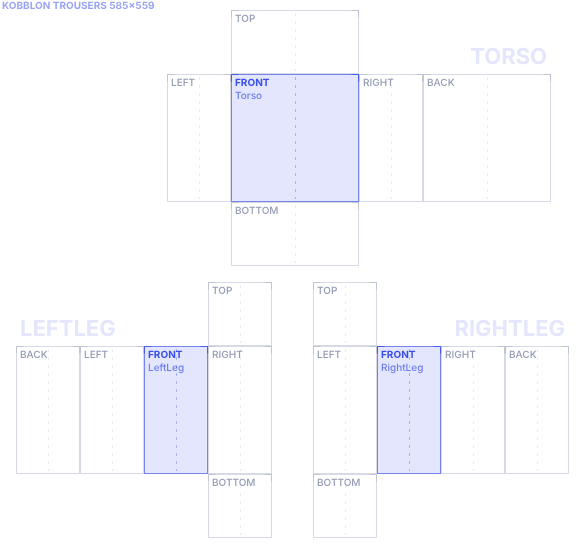
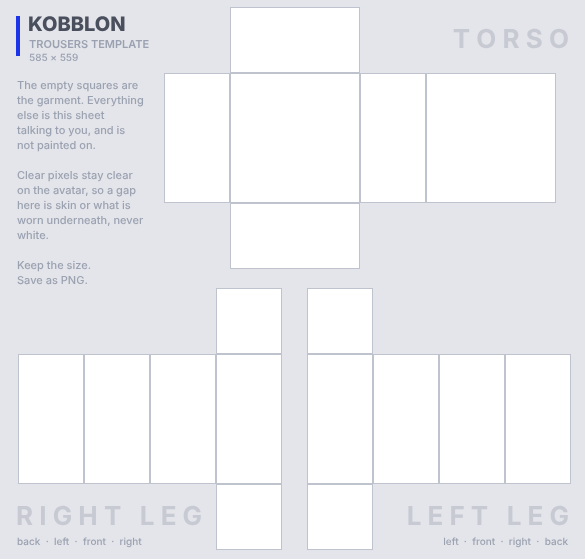
The clothing sheet everybody already has, with our own furniture on it
Measured off the real thing rather than approximated: the panels now sit
exactly where that sheet puts them, 64 wide with two pixels between, and the
avatar's right limb is on the left of the page, which it was not. Reading the
limbs off in list order put every sleeve on the wrong arm.

Everything the sheet says is outside the panels - the field, the lines, the
names, the notes - and the panels are cleared to transparent rather than
drawn into, because clear pixels now stay clear on the avatar. The last thing
drawTemplate does is clear them again, so a letter that strays is cut off on
the sheet instead of printed on somebody's shirt.

169 engine checks pass.

Claude-Session: https://claude.ai/code/session_01FZQsh7zMLCg3ec5FXM3dEr

diff --git a/src/engine/clothes.ts b/src/engine/clothes.ts
@@ -157,27 +157,42 @@ export const SHEET = { width: 585, height: 559 }
 
 /** The torso's six panels, which are the same on a shirt and on trousers. */
 const TORSO_PANELS: Record<Side, Region> = {
-  top: { x: 231, y: 10, w: 128, h: 64 },
-  left: { x: 167, y: 74, w: 64, h: 128 },
+  top: { x: 231, y: 8, w: 128, h: 64 },
+  left: { x: 165, y: 74, w: 64, h: 128 },
   front: { x: 231, y: 74, w: 128, h: 128 },
-  right: { x: 359, y: 74, w: 64, h: 128 },
-  back: { x: 423, y: 74, w: 128, h: 128 },
-  bottom: { x: 231, y: 202, w: 128, h: 64 },
+  right: { x: 361, y: 74, w: 64, h: 128 },
+  back: { x: 427, y: 74, w: 128, h: 128 },
+  bottom: { x: 231, y: 204, w: 128, h: 64 },
 }
 
 /*
  * A limb's four faces, in the order they lie across its block, and which of
  * those four the lid and floor sit over. The avatar's left limb and its
  * right one are mirror images of each other on the sheet.
+ *
+ * The panels are 64 wide with two pixels between them, which is why the
+ * pitch is 66 and not the cell size. Those two pixels are where the sheet
+ * draws its own lines, so that nothing a creator can see sits inside a
+ * panel and ends up printed on the garment.
  */
-const LIMBS = [
-  { at: 16, across: ['back', 'left', 'front', 'right'] as Side[], flapAt: 3 },
-  { at: 313, across: ['left', 'front', 'right', 'back'] as Side[], flapAt: 0 },
-]
+const LIMBS: Record<'left' | 'right', { at: number; across: Side[]; flapAt: number }> = {
+  /*
+   * Keyed by which arm or leg it is, and not by the order the parts happen
+   * to be listed in, because the sheet puts the avatar's **right** limb on
+   * the left of the page. Reading them off in list order put every sleeve on
+   * the wrong arm - it survives being looked at, because a sleeve is nearly
+   * symmetrical and most shirts do not care until one of them does.
+   */
+  right: { at: 19, across: ['back', 'left', 'front', 'right'], flapAt: 3 },
+  left: { at: 308, across: ['left', 'front', 'right', 'back'], flapAt: 0 },
+}
 
-const LIMB_ROW = 346
-const LIMB_LID = 282
-const LIMB_FLOOR = 474
+/** Panel to panel across a strip: 64 of panel and 2 of gap. */
+const PITCH = CELL + 2
+
+const LIMB_ROW = 355
+const LIMB_LID = 289
+const LIMB_FLOOR = 485
 
 export function templateFor(kind: Clothing): Template {
   const regions: Record<string, Region> = {}
@@ -187,17 +202,17 @@ export function templateFor(kind: Clothing): Template {
     regions[key(body as BodyPart, side)] = { ...TORSO_PANELS[side] }
   }
 
-  limbs.forEach((part, nth) => {
-    const { at, across, flapAt } = LIMBS[nth]
+  for (const part of limbs) {
+    const { at, across, flapAt } = LIMBS[part.startsWith('Right') ? 'right' : 'left']
     across.forEach((side, column) => {
-      const x = at + column * CELL
+      const x = at + column * PITCH
       regions[key(part as BodyPart, side)] = { x, y: LIMB_ROW, w: CELL, h: CELL * 2 }
       if (column === flapAt) {
         regions[key(part as BodyPart, 'top')] = { x, y: LIMB_LID, w: CELL, h: CELL }
         regions[key(part as BodyPart, 'bottom')] = { x, y: LIMB_FLOOR, w: CELL, h: CELL }
       }
     })
-  })
+  }
 
   return { kind, width: SHEET.width, height: SHEET.height, regions }
 }
@@ -295,24 +310,23 @@ export function wrapToTemplate(
  * The template a creator draws into, as a picture.
  *
  * Drawn from the same regions the wrapping reads, so it cannot describe a
- * layout the body does not actually use. Every region is outlined and named,
- * because an unlabelled template is a puzzle: somebody draws a sleeve, puts
- * it on, and finds it on the back of the other arm.
+ * layout the body does not actually use.
  *
- * Staw asked for it to be "a bit more like roblox but without copying them,
- * and also make it aesthetic". What that means in practice is three things
- * their sheet gets right and the first version here did not: the front of
- * each part reads as the front at a glance, every panel says which way is
- * up, and the whole sheet is one picture rather than a scatter of boxes.
+ * **The panels are empty, and that is the whole design.** Staw, holding up
+ * the sheet everybody already draws into: "same exact template as roblox but
+ * make it a different design for the images on it - the stuff that are not
+ * apart of the clothing". The layout is the one every creator has muscle
+ * memory for, down to the two pixels between panels; everything this file
+ * draws - the field, the lines, the names, the notes - sits outside the
+ * panels, in those two pixels and in the margins the layout leaves over.
  *
- * So each part is a strip with its name down the side, the front panel is
- * the only one filled in the brand colour, the seams between panels are
- * drawn as hairlines rather than full boxes, and there is a centre line and
- * a corner tick on each panel - which is the thing you actually need when
- * lining a pocket up with the one on the other side.
+ * So nothing here can end up on a garment. The first version of this drew
+ * faint guides inside each panel, which is a guide on the sheet and a ghost
+ * on the shirt of anybody who did not paint over every corner of it.
  *
- * Everything drawn here ends up in the texture if the creator does not paint
- * over it, so it is all kept faint on purpose. Guides, not decoration.
+ * The panels are cleared to transparent rather than filled white, because a
+ * clear pixel is now a clear pixel on the body: a sleeveless shirt is a
+ * sheet with the sleeve panels left alone.
  */
 export function drawTemplate(sheet: Template, canvas: HTMLCanvasElement) {
   canvas.width = sheet.width
@@ -320,13 +334,36 @@ export function drawTemplate(sheet: Template, canvas: HTMLCanvasElement) {
   const brush = canvas.getContext('2d')
   if (!brush) return canvas
 
+  const FIELD = '#e4e5ea'
+  const LINE = '#bfc3cd'
+  const QUIET = '#9aa1b0'
+  const LOUD = '#c7cad3'
+  const BRAND = '#1b34e8'
+  const type = 'system-ui, -apple-system, Segoe UI, sans-serif'
+
   brush.clearRect(0, 0, sheet.width, sheet.height)
+  brush.fillStyle = FIELD
+  brush.fillRect(0, 0, sheet.width, sheet.height)
   brush.textBaseline = 'top'
 
+  // Every panel punched out of the field, and a hairline round it drawn in
+  // the gap beside it rather than on it.
+  for (const region of Object.values(sheet.regions)) {
+    brush.clearRect(region.x, region.y, region.w, region.h)
+  }
+  brush.strokeStyle = LINE
+  brush.lineWidth = 1
+  for (const region of Object.values(sheet.regions)) {
+    brush.strokeRect(region.x - 0.5, region.y - 0.5, region.w + 1, region.h + 1)
+  }
+
   /*
-   * Grouped back into parts, because the sheet is laid out as one strip per
-   * part and the drawing wants to say so - a name down the side of a strip
-   * and a box around it, neither of which a loop over loose regions can do.
+   * Each part's name, large and quiet, in the margin its lid leaves empty.
+   *
+   * Which margin is not fixed: the two limbs are mirrored, so a corner that
+   * is open on one of them is a sleeve on the other. The name goes on the
+   * side of the strip the lid is not, which is the one rule that holds for
+   * all three strips and for trousers as well as shirts.
    */
   const strips = new Map<string, Region[]>()
   for (const [name, region] of Object.entries(sheet.regions)) {
@@ -336,101 +373,125 @@ export function drawTemplate(sheet: Template, canvas: HTMLCanvasElement) {
     else strips.set(part, [region])
   }
 
+  const body = COVERS[sheet.kind][0] as string
+  const spaced = (word: string) => word.split('').join(' ')
+
   for (const [part, regions] of strips) {
     const left = Math.min(...regions.map((one) => one.x))
     const right = Math.max(...regions.map((one) => one.x + one.w))
-    const top = Math.min(...regions.map((one) => one.y))
-    const bottom = Math.max(...regions.map((one) => one.y + one.h))
+    const lid = sheet.regions[`${part}.top`]
+    const floor = sheet.regions[`${part}.bottom`]
+    const band = part === body ? lid : floor
+    if (!band) continue
 
-    // The strip's own ground, so a part reads as one object unfolded.
-    brush.fillStyle = 'rgba(255,255,255,0.035)'
-    brush.fillRect(left, top, right - left, bottom - top)
+    const lidIsLeft = lid ? lid.x + lid.w / 2 < (left + right) / 2 : true
+    const words = part.replace(/([a-z])([A-Z])/g, '$1 $2').toUpperCase()
 
     /*
-     * The part's name, large and faint, in the band the lid leaves empty -
-     * on whichever side of the strip the lid is not. The limbs are mirrored,
-     * so a fixed corner puts the name inside a sleeve on one of them.
+     * Sized to the gap it is standing in rather than set once. The gap is
+     * whatever the lid leaves over, which is not the same on the torso as on
+     * a limb, and a name that is one letter too long for it gets that letter
+     * cut off by the panel beside it.
      */
-    const lid = sheet.regions[`${part}.top`]
-    const lidLeftOfMiddle = lid
-      ? lid.x + lid.w / 2 < (left + right) / 2
-      : true
+    const room = (lidIsLeft ? sheet.width - 16 - (band.x + band.w + 8) : band.x - 8 - 16)
     brush.save()
-    brush.fillStyle = 'rgba(27,52,232,0.12)'
-    brush.font = '700 22px system-ui, sans-serif'
-    brush.textAlign = lidLeftOfMiddle ? 'right' : 'left'
-    brush.textBaseline = 'bottom'
+    brush.fillStyle = LOUD
+    brush.textBaseline = 'middle'
+    brush.textAlign = lidIsLeft ? 'right' : 'left'
+    let size = 26
+    brush.font = `700 ${size}px ${type}`
+    while (size > 13 && brush.measureText(spaced(words)).width > room) {
+      size -= 1
+      brush.font = `700 ${size}px ${type}`
+    }
     brush.fillText(
-      part.toUpperCase(),
-      lidLeftOfMiddle ? right - 4 : left + 4,
-      (lid ? lid.y + lid.h : top + 34) - 6,
+      spaced(words),
+      lidIsLeft ? sheet.width - 16 : 16,
+      band.y + band.h / 2,
     )
     brush.restore()
     brush.textBaseline = 'top'
-  }
-
-  for (const [name, region] of Object.entries(sheet.regions)) {
-    const [part, side] = name.split('.')
-    const front = side === 'front'
-
-    brush.fillStyle = front ? 'rgba(27,52,232,0.12)' : 'rgba(255,255,255,0.045)'
-    brush.fillRect(region.x, region.y, region.w, region.h)
-
-    // The seam. A hairline, in the brand colour on the front and grey
-    // elsewhere, so the panel somebody is looking for is the lit one.
-    brush.strokeStyle = front ? 'rgba(27,52,232,0.55)' : 'rgba(140,150,180,0.35)'
-    brush.lineWidth = 1
-    brush.strokeRect(region.x + 0.5, region.y + 0.5, region.w - 1, region.h - 1)
 
     /*
-     * The centre line, dashed, down every panel. This is the guide that
-     * does real work: a logo on the chest and a stripe down a sleeve are
-     * both "find the middle", and counting pixels on a template is how
-     * everybody's first shirt ends up a little to the left.
+     * And under a limb's name, the order its faces lie in across the sheet.
+     * This is the thing people actually get wrong - the two arms do not
+     * read the same way, and a sleeve drawn to the wrong order comes out on
+     * the back of the other arm with no clue as to why.
      */
-    const middle = Math.round(region.x + region.w / 2) + 0.5
+    if (part === body) continue
+    const across = Object.entries(sheet.regions)
+      .filter(([name, one]) => name.startsWith(`${part}.`) && one.h > CELL)
+      .sort(([, one], [, other]) => one.x - other.x)
+      .map(([name]) => name.split('.')[1])
     brush.save()
-    brush.setLineDash([3, 5])
-    brush.strokeStyle = front ? 'rgba(27,52,232,0.30)' : 'rgba(140,150,180,0.18)'
-    brush.beginPath()
-    brush.moveTo(middle, region.y + 3)
-    brush.lineTo(middle, region.y + region.h - 3)
-    brush.stroke()
+    brush.fillStyle = QUIET
+    brush.font = `500 10px ${type}`
+    brush.textAlign = lidIsLeft ? 'right' : 'left'
+    brush.fillText(
+      across.join('  ·  '),
+      lidIsLeft ? sheet.width - 17 : 17,
+      band.y + band.h / 2 + 20,
+    )
     brush.restore()
-
-    /*
-     * A tick in the top two corners: which end is up, without a word for
-     * it. A panel upside down is the mistake that survives being looked at,
-     * because a sleeve is nearly symmetrical and a stripe does not care.
-     */
-    brush.strokeStyle = front ? 'rgba(27,52,232,0.5)' : 'rgba(140,150,180,0.3)'
-    brush.beginPath()
-    brush.moveTo(region.x + 0.5, region.y + 7.5)
-    brush.lineTo(region.x + 0.5, region.y + 0.5)
-    brush.lineTo(region.x + 7.5, region.y + 0.5)
-    brush.moveTo(region.x + region.w - 7.5, region.y + 0.5)
-    brush.lineTo(region.x + region.w - 0.5, region.y + 0.5)
-    brush.lineTo(region.x + region.w - 0.5, region.y + 7.5)
-    brush.stroke()
-
-    brush.font = `${front ? 700 : 500} 10px system-ui, sans-serif`
-    brush.fillStyle = front ? 'rgba(27,52,232,0.85)' : 'rgba(120,130,160,0.8)'
-    brush.fillText(side.toUpperCase(), region.x + 4, region.y + 4)
-    if (front) {
-      brush.fillStyle = 'rgba(27,52,232,0.6)'
-      brush.font = '500 10px system-ui, sans-serif'
-      brush.fillText(part, region.x + 4, region.y + 17)
-    }
   }
 
   /*
-   * The sheet's own label, in the gap at the top left where no region sits.
-   * A downloaded file that says what it is and how big it is saves the one
-   * question everybody asks after resizing it by accident.
+   * The corner that says what the file is. A sheet that has been resized by
+   * accident is the commonest way a shirt comes out blurred, and the size is
+   * the one thing nobody can read off the picture itself.
    */
-  brush.font = '700 10px system-ui, sans-serif'
-  brush.fillStyle = 'rgba(27,52,232,0.45)'
-  brush.fillText(`KOBBLON ${sheet.kind.toUpperCase()} ${sheet.width}x${sheet.height}`, 2, 1)
+  brush.save()
+  brush.fillStyle = BRAND
+  brush.fillRect(16, 16, 4, 40)
+  brush.fillStyle = '#4a4f5e'
+  brush.font = `800 20px ${type}`
+  brush.fillText('KOBBLON', 28, 15)
+  brush.fillStyle = QUIET
+  brush.font = `600 11px ${type}`
+  brush.fillText(`${sheet.kind.toUpperCase()} TEMPLATE`, 29, 39)
+  brush.font = `500 10px ${type}`
+  brush.fillText(`${sheet.width} × ${sheet.height}`, 29, 53)
+  brush.restore()
+
+  /*
+   * The three things worth knowing, in the margin beside the torso. Said as
+   * short lines rather than a paragraph: this is a picture somebody opens in
+   * a paint program, not a page they read.
+   */
+  const notes = [
+    'The empty squares are',
+    'the garment. Everything',
+    'else is this sheet',
+    'talking to you, and is',
+    'not painted on.',
+    '',
+    'Clear pixels stay clear',
+    'on the avatar, so a gap',
+    'here is skin or what is',
+    'worn underneath, never',
+    'white.',
+    '',
+    'Keep the size.',
+    'Save as PNG.',
+  ]
+  brush.save()
+  brush.fillStyle = QUIET
+  brush.font = `500 11px ${type}`
+  notes.forEach((line, nth) => brush.fillText(line, 17, 80 + nth * 15))
+  brush.restore()
+
+  /*
+   * And last, the panels again.
+   *
+   * Everything above is laid out to keep clear of them, and this is the line
+   * that makes that true rather than intended: a letter that strays into a
+   * panel because a font fell back or a part got a longer name is a letter
+   * printed on somebody's shirt. Cutting it off looks wrong on the sheet,
+   * which is exactly where it should look wrong.
+   */
+  for (const region of Object.values(sheet.regions)) {
+    brush.clearRect(region.x, region.y, region.w, region.h)
+  }
 
   return canvas
 }
